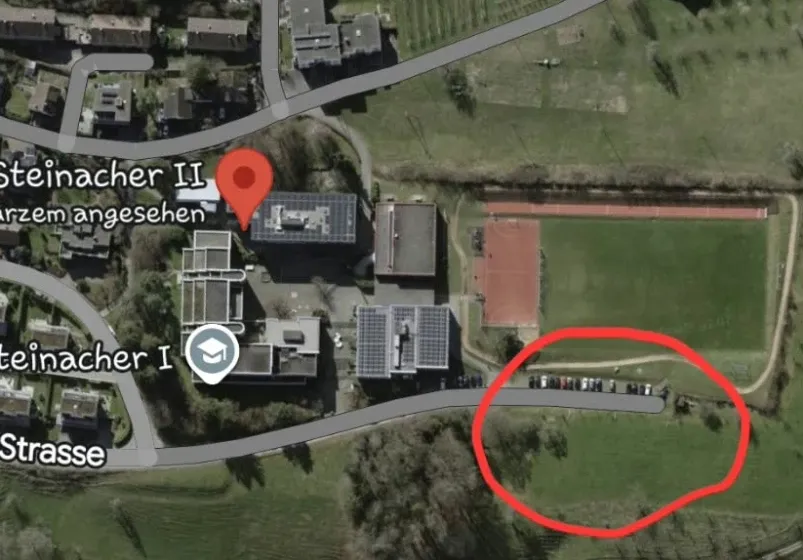
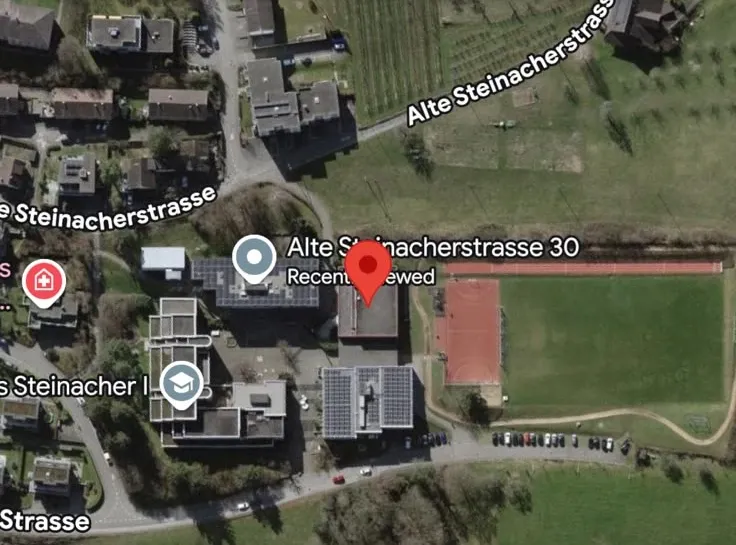
Winter-Karte: neues Luftbild mit Halle und Parkplaetzen

diff --git a/index.html b/index.html
@@ -224,7 +224,7 @@
         <h2 class="section-title">Unsere <span class="accent">Trainingsorte</span></h2>
         <div class="location-list">
             <div class="glass-card location-card">
-                <img src="assets/images/standort-winter.webp" alt="Luftbild Schulhaus Steinacher in Au mit eingekreistem Parkplatz beim Sportplatz" loading="lazy" class="location-map-img location-map-img-winter">
+                <img src="assets/images/standort-winter.webp" alt="Luftbild Schulhaus Steinacher in Au mit markierter Halle und Parkplätzen beim Sportplatz" loading="lazy" class="location-map-img location-map-img-winter">
                 <div class="location-details">
                     <div class="location-info">
                         <span class="badge badge-category">Winter · Halle</span>

diff --git a/css/pages/home.css b/css/pages/home.css
@@ -372,9 +372,9 @@
     .location-details { padding: 24px 40px 24px 8px; flex-direction: row; align-items: center; justify-content: space-between; gap: 24px; }
 }
 
-/* Parkplatz-Kreis liegt im unteren Bilddrittel - beim Zuschneiden sichtbar halten */
+/* Halle (Bildmitte) und Parkplaetze (unteres Drittel) beim Zuschneiden sichtbar halten */
 .location-map-img-winter {
-    object-position: 50% 80%;
+    object-position: 50% 65%;
 }
 
 /* Winter- und Sommerkarte untereinander */

diff --git a/CLAUDE.md b/CLAUDE.md
@@ -2664,8 +2664,8 @@ umsetzen, ohne dass die fehlende Info vorliegt:
    "Unsere Trainingsorte" mit Winter-Karte (Hallenregeln: nur Flüssigchalk,
    weisse Sohlen/Socken, kein Essen; Parkplatz-Hinweis) und Sommer-Karte
    Horgen, JSON-LD, FAQ. Bild der Winter-Karte `assets/images/standort-winter.webp`
-   (803×560, Ausschnitt aus einem Google-Maps-Luftbild mit rot eingekreistem
-   Parkplatz). `getNextTrainingWindow()` wieder `setHours(18, ...)`,
+   (736×545, Ausschnitt aus einem Google-Maps-Luftbild, rote Nadel auf der
+   Halle, Parkplätze beim Sportplatz sichtbar). `getNextTrainingWindow()` wieder `setHours(18, ...)`,
    Datumszeile in `js/trainings-anmeldung.js`. **Offen:** im Frühling
    Zeiten-Karte/Anmeldung auf Sommer (Park Horgen) umstellen; Parkplatz-Text
    stammt aus einer Kartenskizze, mit dem Verein bestätigen; klären, ob die
